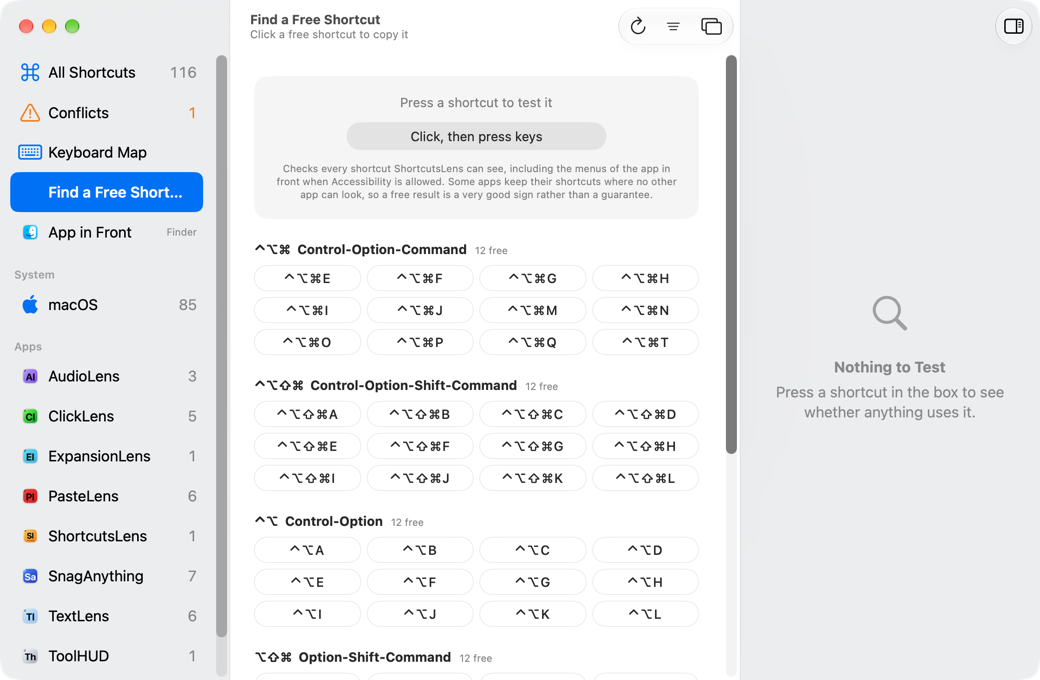
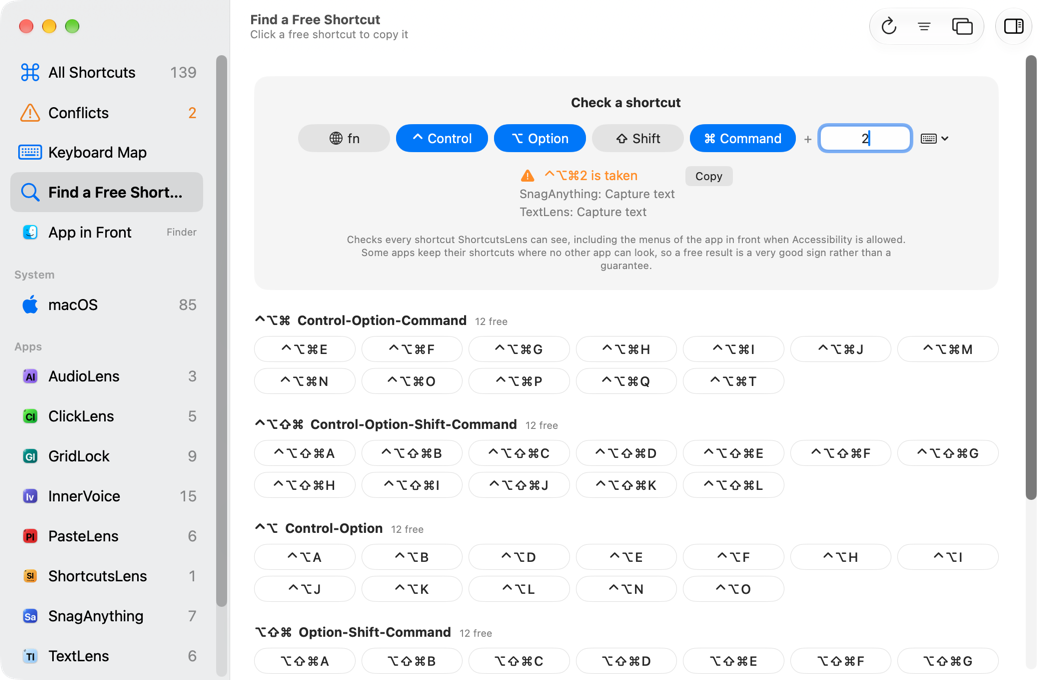
README: new Find a Free Shortcut shot and a Change Shortcut shot
Debug-only hooks to prefill the Change sheet and make it key for screenshots.

diff --git a/Sources/ShortcutsLens/UI/ChangeShortcut.swift b/Sources/ShortcutsLens/UI/ChangeShortcut.swift
@@ -1,3 +1,4 @@
+import AppKit
 import ShortcutsLensKit
 import SwiftUI
 
@@ -95,6 +96,10 @@ struct ChangeShortcutSheet: View {
         self.entry = entry
         _modifiers = State(initialValue: entry.combo.modifiers)
         _key = State(initialValue: entry.combo.keyCode.map(KeyNames.name(for:)) ?? "")
+        #if DEBUG
+        // `SHORTCUTSLENS_DEBUG_SHEET_KEYS=⌃⌥⌘D` types new keys into the sheet for screenshots.
+        if let keys = ProcessInfo.processInfo.environment["SHORTCUTSLENS_DEBUG_SHEET_KEYS"] { _key = State(initialValue: keys) }
+        #endif
     }
 
     private var unchanged: Bool { combo == entry.combo }
@@ -148,6 +153,17 @@ struct ChangeShortcutSheet: View {
         }
         .padding(20)
         .frame(width: 680)
+        #if DEBUG
+        // Screenshots: a sheet shown before the app is active never becomes key by itself.
+        .onAppear {
+            guard ProcessInfo.processInfo.environment["SHORTCUTSLENS_DEBUG_CHANGE_SHEET"] != nil else { return }
+            for delay in [2.0, 3.0, 4.0, 5.0] {
+                DispatchQueue.main.asyncAfter(deadline: .now() + delay) {
+                    NSApp.windows.filter(\.isSheet).forEach { $0.makeKeyAndOrderFront(nil) }
+                }
+            }
+        }
+        #endif
     }
 
     private func save() {

diff --git a/README.md b/README.md
@@ -38,7 +38,11 @@ Requires macOS 26 or later. ShortcutsLens is in beta.
 </tr>
 <tr>
 <td width="50%"><img src="docs/images/conflicts.png" alt="The Conflicts page, showing SnagAnything and TextLens both on Control-Option-Command-2"><br><sub><b>Conflicts.</b> Shortcuts that fight over the same keys.</sub></td>
-<td width="50%"><img src="docs/images/free.png" alt="Find a Free Shortcut, with a box to test a shortcut and free shortcuts grouped by modifiers"><br><sub><b>Find a Free Shortcut.</b> Test one, or pick one that's free.</sub></td>
+<td width="50%"><img src="docs/images/free.png" alt="Find a Free Shortcut with Control, Option and Command chosen and 2 typed, showing that SnagAnything and TextLens both use it, above free shortcuts grouped by modifiers"><br><sub><b>Find a Free Shortcut.</b> Check one, or pick one that's free.</sub></td>
+</tr>
+<tr>
+<td width="50%"><img src="docs/images/change.png" alt="The Change sheet for macOS's Show Desktop shortcut, with Control-Option-Command-D chosen and a warning that TextLens already uses it"><br><sub><b>Change Shortcut.</b> New keys, checked for conflicts before you save.</sub></td>
+<td width="50%"></td>
 </tr>
 </table>
 
@@ -49,6 +53,7 @@ macOS keeps no single list of every shortcut, and it doesn't tell one app which 
 - **macOS's shortcuts** come from the table Keyboard settings is built from, merged with your changes (`com.apple.symbolichotkeys`) and the live values the window server is using.
 - **Apps' shortcuts** come from their settings files. Most apps save global shortcuts with one of a few common libraries, and each leaves a recognizable shape (a JSON string of key code and modifiers, an archived shortcut object, a key-code dictionary). ShortcutsLens only looks under settings whose names say "hotkey" or "shortcut", so window positions and typed keys aren't mistaken for shortcuts.
 - **Apps that report their own shortcuts** answer ShortcutsLens directly while they run, which is exact. The protocol is one small file, [`Shared/ShortcutsLensReport.swift`](Shared/ShortcutsLensReport.swift), that any app can copy in. An app that passes a `change` handler to it also lets people give its shortcuts new keys from ShortcutsLens.
+- **Popular apps that never save their defaults** (Snagit, 1Password, Clop and a few more) are covered by a short list of their documented default shortcuts, used only when nothing is found in the app's settings.
 - **App Store apps** keep their settings in a sandbox. Turn on "Also look in sandboxed apps" in Settings › Sources to include them; macOS asks once whether ShortcutsLens may see other apps' data.
 
 An app that keeps its shortcuts in its own database, or hard-codes them, leaves nothing to read, so a shortcut ShortcutsLens calls free is a very good sign rather than a guarantee. ShortcutsLens never writes another app's settings file: it changes macOS's shortcuts and App Shortcuts where System Settings keeps them, and other apps' shortcuts only by asking the app, which saves the change itself. It never asks for Full Disk Access.
